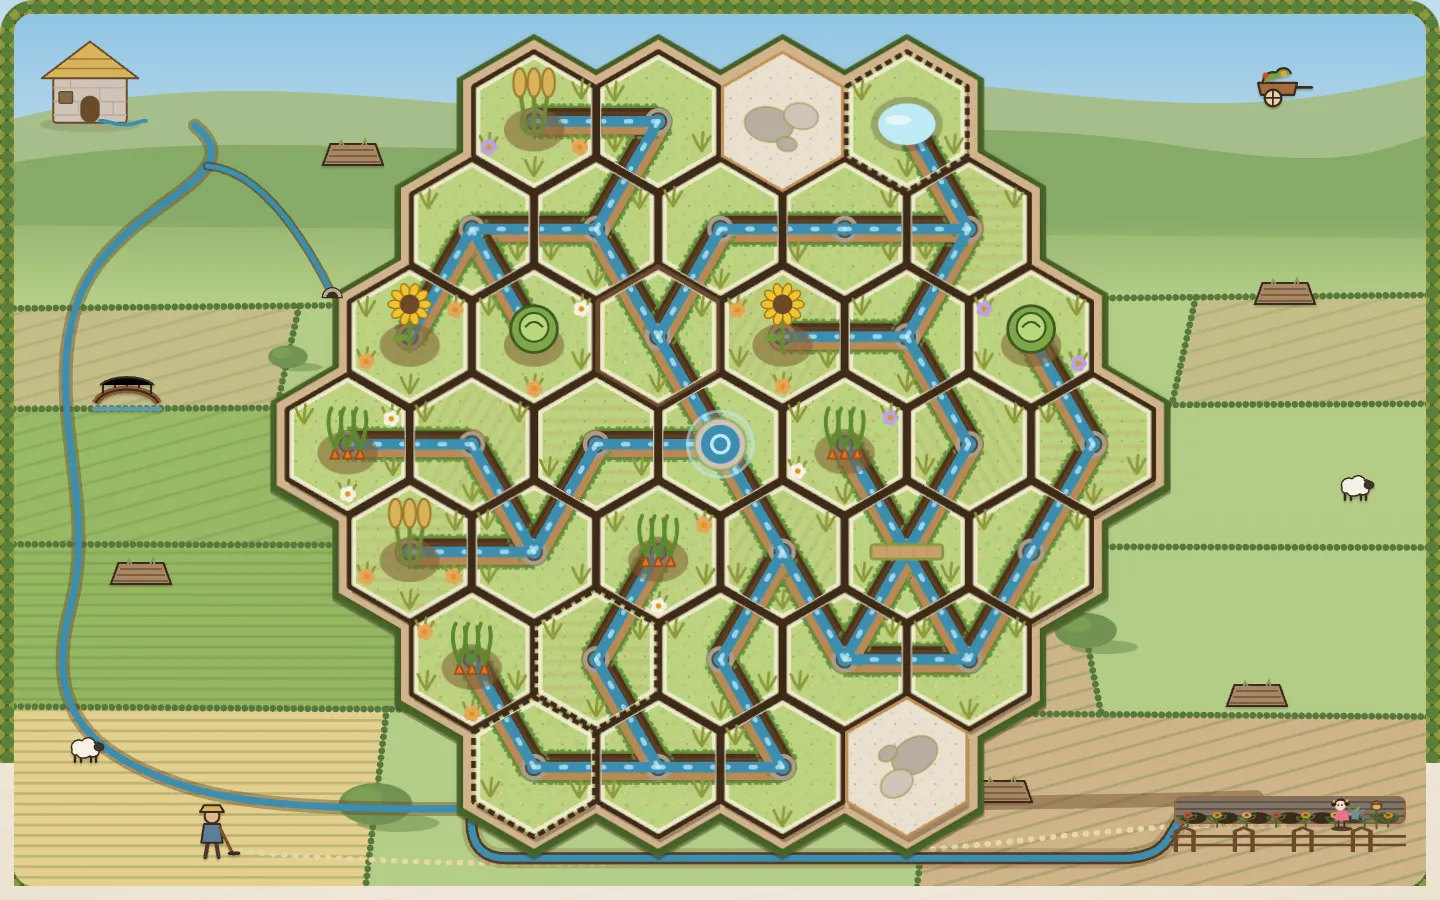
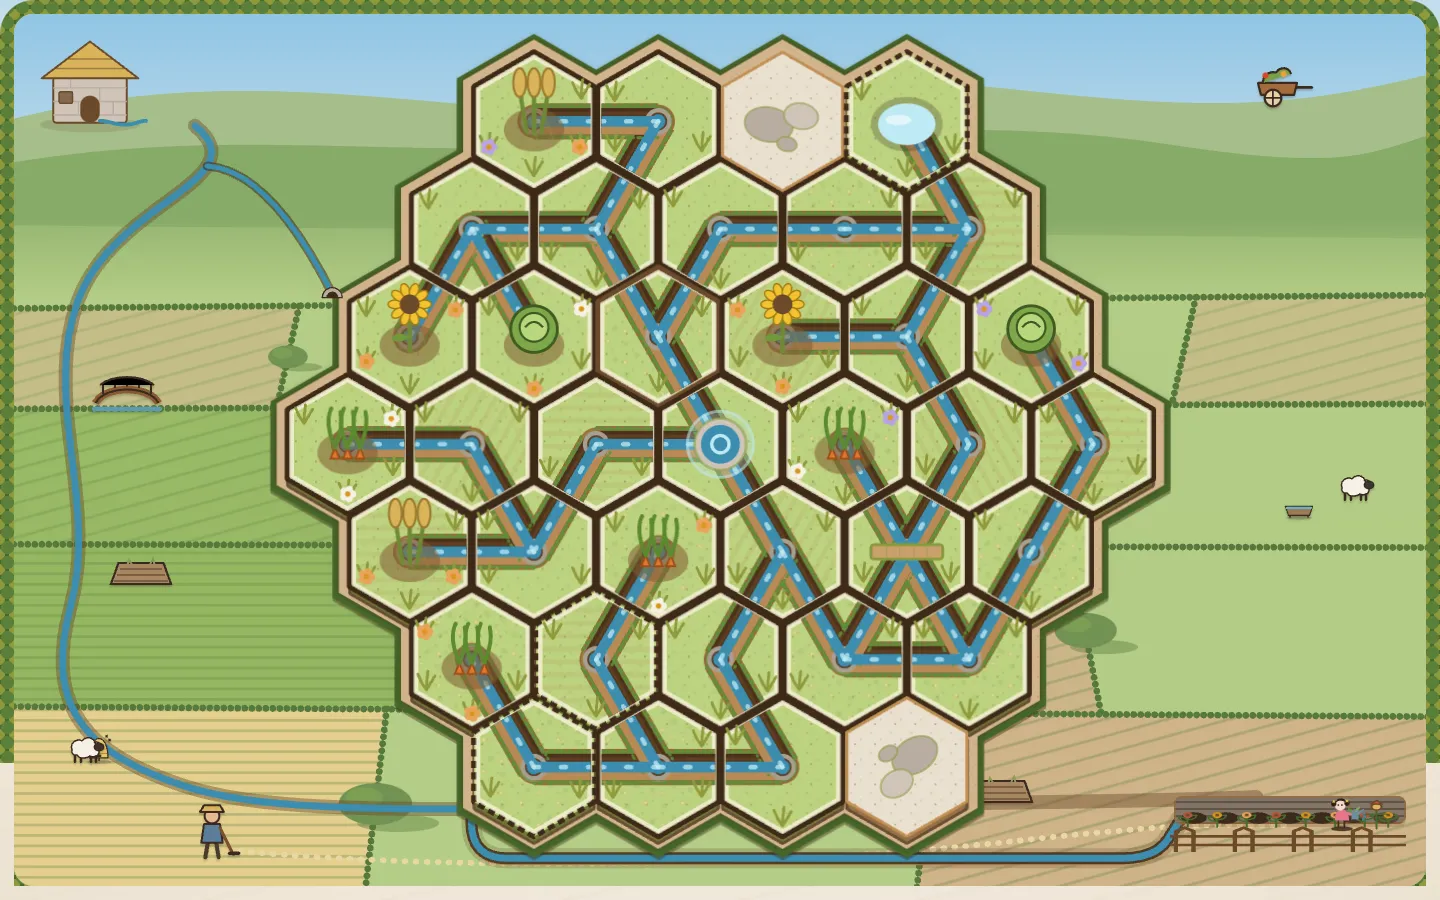
Item 273: Runnel's rain puddles as pools, not minus pills (key art re-shot); lane B notes; release .build-lock-b
Claude-Session: https://claude.ai/code/session_01SimvMN1RHBGCWN7Eo7MzhN

diff --git a/games/runnel/src/valley.ts b/games/runnel/src/valley.ts
@@ -154,7 +154,21 @@ export function valleyLayers(seed: string, weather: Sky['weather']): string {
         const px = (xa + xb) / 2 + lean * 0.5 + (rnd(810 + n) - 0.5) * (xb - xa) * 0.4
         const py = (slope(r, xa) + slope(r + 1, xa + lean)) / 2 + (rnd(820 + n) - 0.5) * 20
         const pw = 22 + r * 9 + rnd(830 + n) * 14
-        puddles.push(`<g class="vl-puddle"><ellipse cx="${px.toFixed(0)}" cy="${py.toFixed(0)}" rx="${pw.toFixed(0)}" ry="${(pw * 0.32).toFixed(0)}"/><path class="vl-puddle-glint" d="M${(px - pw * 0.5).toFixed(0)} ${(py - pw * 0.08).toFixed(0)}h${(pw * 0.45).toFixed(0)}"/></g>`)
+        // Plan item 273: an irregular pool (eight seeded lobes, not an ellipse), its glint a curve along the far rim
+        // and a raindrop's ring on it; an ellipse with a straight dash across read as a 'minus' button.
+        const ry = pw * 0.32
+        const rim = Array.from({ length: 8 }, (_, k) => {
+          const a = (k / 8) * Math.PI * 2
+          const f = 0.78 + rnd(840 + n * 8 + k) * 0.4
+          return [px + Math.cos(a) * pw * f, py + Math.sin(a) * ry * f] as const
+        })
+        const mid = (a: readonly [number, number], b: readonly [number, number]) => `${((a[0] + b[0]) / 2).toFixed(1)} ${((a[1] + b[1]) / 2).toFixed(1)}`
+        let blob = `M${mid(rim[7]!, rim[0]!)}`
+        for (let k = 0; k < 8; k++) blob += `Q${rim[k]![0].toFixed(1)} ${rim[k]![1].toFixed(1)} ${mid(rim[k]!, rim[(k + 1) % 8]!)}`
+        const gx = px - pw * (0.15 + rnd(850 + n) * 0.3)
+        const glint = `M${(gx - pw * 0.28).toFixed(1)} ${(py - ry * 0.45).toFixed(1)}Q${gx.toFixed(1)} ${(py - ry * 0.78).toFixed(1)} ${(gx + pw * 0.3).toFixed(1)} ${(py - ry * 0.5).toFixed(1)}`
+        const rx = px + pw * (rnd(860 + n) * 0.5 - 0.1)
+        puddles.push(`<g class="vl-puddle"><path class="vl-puddle-pool" d="${blob}Z"/><path class="vl-puddle-glint" d="${glint}"/><ellipse class="vl-puddle-ring" cx="${rx.toFixed(1)}" cy="${(py + ry * 0.15).toFixed(1)}" rx="${(pw * 0.14).toFixed(1)}" ry="${(ry * 0.22).toFixed(1)}"/></g>`)
       }
       if (i > 0) hedges.push(`M${xa.toFixed(0)} ${slope(r, xa).toFixed(0)}L${(xa + lean).toFixed(0)} ${slope(r + 1, xa + lean).toFixed(0)}`)
       // An oak or two where the hedges meet.

diff --git a/games/runnel/src/styles.css b/games/runnel/src/styles.css
@@ -3818,16 +3818,22 @@ body[data-mode='practice'] #week-slot {
     vector-effect: non-scaling-stroke;
   }
   /* Plan item 229: a rain day's puddles hold the sky's low light, a glint along their far rim. */
-  .vl-puddle ellipse {
+  .vl-puddle .vl-puddle-pool {
     /* plan item 252: water first (the sky's colour alone read as grey stones) */
     fill: color-mix(in srgb, color-mix(in srgb, var(--water) 55%, var(--vl-sky-low)) var(--vk), var(--paper));
     stroke: color-mix(in srgb, var(--vl-hedge) 35%, transparent);
     stroke-width: 2;
   }
   .vl-puddle-glint {
-    stroke: color-mix(in srgb, var(--paper) 85%, transparent);
-    stroke-width: 2.5;
+    fill: none;
+    stroke: color-mix(in srgb, var(--paper) 75%, transparent);
+    stroke-width: 2;
     stroke-linecap: round;
+  }
+  .vl-puddle-ring {
+    fill: none;
+    stroke: color-mix(in srgb, var(--paper) 45%, transparent);
+    stroke-width: 1.2;
   }
   .vl-drop {
     stroke: color-mix(in srgb, var(--paper) 55%, var(--vl-sky-top));

diff --git a/PROGRESS.md b/PROGRESS.md
@@ -5,7 +5,7 @@ Short by design (SPEC 16: under 150 lines). v1's full history (M0 to M7, every s
 ## Now
 - Lane A (21:51): **release retry running** (the 19:51 session held the lock past 20:51, so this is the retry): lane B's 3 blocker specs pass P and D; gates 1-4, Cathnivore gate 5 (88) and NS perf passed, site suite in progress at 22:36 with no failures. Item 261 slice 1 shipped (north-wall set); still claimed. Next: the pick's ground (puddle parked: it didn't show in the D pick).
 - Critique bugs from the 09:35 shots (`e2e/screenshots/plan1103d/`): NIGHT SHIFT wordmark 'H's: closed 2026-11-07 06:30 (lane A: whole at L and D at 8 s and 20 s; the SVG path, no dash left). Runnel P's spring house and garden: closed 2026-11-04 (item 106).
-- Lane B (22:22): item 264 done (grooves cut into the tiles, hinted tile lifts); runnel-practice's 1-in-3 failure on HEAD fixed (a random Practice greeting wrapped to a third line); planned items 267-273 from the plan1107g critique; item 273 slice 1 (gate queues one size, the hand's count pill off NOT YET). Claimed: 222, 259, 266, 273. Unclaimed: 262, 267-272.
+- Lane B (23:21): item 268 slices 1-2 (desktop Cath as large as the corner allows with her line beside her: daily 124 -> 152 px, lesson 200; 1280x800 no longer scrolls when her line comes back to the rail); item 273 slice 2 (puddles as pools, not 'minus' pills). Claimed: 222, 259, 266, 268, 273. Left in 268: a phone bust with a 48 px face (swapping the valley figure for the line's portrait moves the phone board: check runnel-practice's 260 px), the trench outfit.
 - Critique bugs from the 2026-11-05 09:30 shots (`e2e/screenshots/plan1105c/`, lane B): `cath-title-D` pennant hint ~13 px white on brown (1030-1280 x 800-818) and footer ~12 px (310-1130 x 872-886); `cath-title-P` small keys' labels ~12 px (85-305 x 692-735); `cath-setup-D` seed 'random' low contrast (655-840 x 795-835); `hedge-l34-2d-D` '485 coming' over a farmer (300-395 x 128-150); `hedge-menu-P` 'Brand Ambassador' (closed 2026-11-07 06:35 lane A: on its own label pill beside stop 30, off the road); `ns-title-D` neon sign clipped at the top (790-1150 x 0-45); `ns-play-P` FIXER tab cut (340-390 x 68-82); `games-P` hero ghosted (likely shot mid-entrance: check before fixing).
 - Critique bug seen 2026-11-04 13:30 (lane A, 1280x800): a Not-yet name cut on a 1280 desktop. Fixed 2026-11-04 14:15 (item 104 slice 1).
 - Critique bugs still open (2026-11-03 07:10 shots, `e2e/screenshots/plan1103c/`): NIGHT SHIFT P class pick blank under swiftshader (unconfirmed). Closed 2026-11-04 14:55 (lane A, checked in `plan1104e`): Cath no longer covers title-board hexes at P; Hedgerow D notebook is full; Hedgerow P map header is the act banner over the map.
@@ -36,6 +36,7 @@ None (Vercel deployed 9aee11e on 2026-10-12). (The App Store launch is postponed
 - 2026-10-21 22:44 `5109694`: CATHODE C15 "Armour that breaks, enemies that stagger" (armour/stagger/wounds sims, plates that crack with an amber seam, collapse and fall as rigid pieces, shattered visors over modelled faces, front/back/side staggers, knockdown and get-up, disarm with sidearm draw, limp/hanging arm/crawl, riot shield breaks in three, crit and takedown windows). All gates passed first try (1525 tests, Lighthouse 91); live version.json matches; browser smoke inconclusive (sandbox proxy), HTTP check passed; tag push 403 (harmless). 2nd release today.
 
 ## Session log (newest first, last 15)
+- **2026-11-07 23:21 lane B session:** CI green on c25e852 (lane A releasing). Item 268 slices 1-2, item 273 slice 2. Passing: runnel site specs (104, with the new runnel-host-size), runnel unit, ui-css-lint, keyart-fresh (Runnel key art re-shot).
 - **2026-11-07 22:22 lane B session:** CI green on 74e87f5. Item 264 (done), planning (items 267-273, subagent critique of `plan1107g`), item 273 slice 1. Passing: runnel site specs (101) and unit (105), runnel-practice 12/12 after the greeting fix, action-hand, table-hand, hedgerow gatequeue and vehicles, ui-css-lint, keyart-fresh. Hedgerow key art re-shot.
 - **2026-11-07 21:51 lane A session:** CI: 5972dd9's red was a cancelled run; 74e87f5 running. Release retried (see Now). Item 261 slice 1 (`33cece9`). Passing: cathode-front stands whole/neon/logotype/face/hero/eyes (P and D, 2 skipped by project), cathode-perf (225/256/388 calls), cathode level/collider/cover units (95), tsc, eslint. Tried and dropped: bins 0.25 m further from her (off the frame), item 148's puddle at her feet (not visible in the D pick). Shots scratchpad s0/s1 (title t8/t30 P, D), pk/pk2 (pick).
 - **2026-11-07 21:21 lane B session:** CI green on 35ba027; took lane A's blocked release first. Fixed hedgerow-critique177, runnel-lesson-close and runnel-water at the root. Passing: hedgerow map/critique/lane specs (63), runnel site specs P and D (practice flaked under 2 workers, 22/22 alone), runnel unit 105, keyart-fresh. Tried and dropped: coalescing the valley placements into a microtask (the desktop page then scrolled 31 px), and memoising host.ts's Cath art (no gain).
@@ -50,4 +51,3 @@ None (Vercel deployed 9aee11e on 2026-10-12). (The App Store launch is postponed
 - **2026-11-07 16:22 lane B session:** CI red on a5e6426 only for NS key art (lane A's 760da46; lane A re-shot it in d7659c0, keyart-fresh passes). Items 224 (slices 4-5, done), 236 (slice 2, done), 211 (slice 4, done), 222 slice 4. Passing: hedgerow-crayon (new), -farhouses3d (new advert test), -biome3d, -dressing3d, -field, -gatequeue; games-cards, -stall, -hero-cath; hedgerow unit 26; ui-css-lint; keyart-fresh. Hedgerow key art re-shot.
 - **2026-11-07 15:51 lane A session:** CI red on a5e6426 (keyart-fresh NIGHT SHIFT, from item 251's frontcath change): key art re-shot. Item 254 slice 1 (toon flats, hard rim, ink hull on 12 parts; title calls 150 -> 161). Passing: cathode-front (43), cathode-classpick (13), keyart-fresh, cathode-classposes unit; tsc, eslint. Full `npm run check` not run. Shots scratchpad ink (before/a3, D title t30, D pick, P title, P pick, zooms).
 - **2026-11-07 15:22 lane B session:** item 256 slice 2 and done; item 259 slices 2-7. Passing: hedgerow-gatequeue (new name-tag and plot checks), -vehicles, -depot, -field, -threat but its known l12 D bubble-over-plots failure (6232, as on HEAD), -farhouses3d, -biome3d; games-stall, -hero-cath, -cards (the 4.5:1 test timed out under 3 workers, passes alone); setup-placecards (new squash check, fails on the old CSS), setup-table, daily-ritual, title-counter/-fit/-table; runnel-terrace (lip gap to edges, sign check); ui-css-lint; keyart-fresh but NS (lane A's). Hedgerow key art re-shot twice.
-- **2026-11-07 14:51 lane A session:** CI green on b18d36dd. Item 251 slice 2. Passing: cathode-front 'stands whole', 'clear of her upright', 'face reads' (P and D), classpick 'case file' and 'swipe', classstage, classpose and audition (P); CSS lint, cathode-type, tsc, eslint. Failing locally under 3-4 parallel swiftshader workers (timeouts: 6 s subtitle, 60 s pose poll, page loads): desktop classpick 151/187, classpose, front 'menu keeps fixed slots' (passed alone); left to CI. Full `npm run check` not run. Shots scratchpad n251 (before/after/after2 at 390x844, 375x667, t=8/30/60).

diff --git a/docs/plan/two-week-plan.md b/docs/plan/two-week-plan.md
@@ -2739,7 +2739,7 @@ The items come from fresh-eyes audits on 2026-11-01 and 2026-11-02 (items 25-32:
 - **Accept:** no two cards show the same pose or outfit; no figure cut by a card's edge; the NIGHT SHIFT card's mean luminance 0.12 or more with LUNA wholly inside; games-cards, games-stall, posterplay pass; key art re-shot; shots portfolio and games, P and D.
 - **Size:** 2
 
-## 273. [ ] The bugs from the 2026-11-07 22:40 critique, fixed as one batch *(lane B, in progress)* *(slice 1, 2026-11-07 22:55 lane B: **Hedgerow** a gate queue is one size: 1.4x only when every vehicle of it stands on a straight run across, else all at 1x (D l34's vans were two sizes at the bend); gatequeue, vehicles pass; key art re-shot. **Cathnivore** P hand: the 'N more ›' pill sits 30 px in from the edge, off the NOT YET deck's upright label; action-hand, table-hand pass. Shots scratchpad q256-q273-D-34, ph4)*
+## 273. [ ] The bugs from the 2026-11-07 22:40 critique, fixed as one batch *(lane B, in progress)* *(slice 1, 2026-11-07 22:55 lane B: **Hedgerow** a gate queue is one size: 1.4x only when every vehicle of it stands on a straight run across, else all at 1x (D l34's vans were two sizes at the bend); gatequeue, vehicles pass; key art re-shot. **Cathnivore** P hand: the 'N more ›' pill sits 30 px in from the edge, off the NOT YET deck's upright label; action-hand, table-hand pass. Shots scratchpad q256-q273-D-34, ph4)* *(slice 2, 23:40: **Runnel** a rain day's puddles are irregular seeded pools with a curved glint along the far rim and a raindrop ring, not ellipses with a straight dash (they read as 'minus' pills); valley, week-valley, valley-folk, board pass; key art re-shot; shot scratchpad pd-D/P)*
 - **Build:** (check each first; shots `e2e/screenshots/plan1107g`; dropped: 'Kingsmarket' across the river, checked 2026-11-07 (10 px clear); points already in 259, 261, 266)
   - **Cathnivore:** P game: the '9 more ›' pill on the NOT YET deck's vertical label (310-385 x 700-740). D game: Partner's farm '+1/+2' about 11 px grey (90-290 x 268-292); ACTIONS' three plain discs with no label or state (220-315 x 42-68). D and P title: 'Today's Daily is open' about 11 px grey (852-965 x 778-796; P 265-360 x 578-594). D campaign: chapter 4's card cut by the rail's foot with letter fragments (975-1357 x 843-900): a whole-card fade or snap. D setup: the pins' grey captions (160-285 x 712-742), check 4.5:1.
   - **Runnel:** the rain puddles read as 'minus' pills (D 520-600 x 458-482 and others; P 50-190 x 490-510): varied shapes, a sky glint, no dash. D: the barrow on the board's top rim against the sky (860-910 x 75-112). D legend's second words grey at 13 px (110-300 x 400-436), check 4.5:1.

diff --git a/docs/archive/PROGRESS-v1.md b/docs/archive/PROGRESS-v1.md
@@ -3938,3 +3938,4 @@ want reminded of mid-game without leaving the Farm sheet. Full detail in DECISIO
 - **2026-11-07 13:22 lane B session:** CI green on 7345ddb. Item 242 closed; planned 254-259; item 259 slice 1. Passing: runnel-week-valley, -valley-folk, -valley, -front (phone and desktop). Shots `e2e/screenshots/plan1107e`, `i214/rp2-*`.
 - **2026-11-07 12:52 lane A session:** CI green on f140f17 (c04fecd cancelled, 7345ddb running). Item 249 slice 1: the Market Board as a 2x2 beside the papers at 1400 px and up (board 536 -> 606 px at 1440x900); not committed: board-scale (Cath meets Brindle Hills; map moves 13 px on Hollowell's turn) and table-cath failed. Passing with it: desktop-no-scroll, critique177, tutorial, board-scales, CSS lint. Patch saved, item handed back. No code shipped. Shots scratchpad b249 (before, a1-a6).
 - **2026-11-07 13:51 lane A session:** CI green on 25dd7b5. Item 249 slices 1-3 and done (readings folded beside the papers at 1400+, board 536 -> 593 px at 1440x900; tile idle life `data-idle`); item 251 slice 1, handed back. Passing: board-scale, table-cath, -face, desktop-no-scroll, suggest-move, critique177, board-scales, board-objects, plan-cards (fixed at 1440 and 1280), accessibility, board-idle (new), tutorial (flaked once, passed twice), map unit; cathode-front 'clear of her upright', 'stands whole', 'face reads' (site-phone/-desktop); CSS lint, cathode-type, tsc, eslint. Full `npm run check` not run. Shots scratchpad b249 (before/after/after2 at 1440 light and dark, 1280, 1920, 390; idle zooms; ns-before/after at 390, 375, t=60).
+- **2026-11-07 14:51 lane A session:** CI green on b18d36dd. Item 251 slice 2. Passing: cathode-front 'stands whole', 'clear of her upright', 'face reads' (P and D), classpick 'case file' and 'swipe', classstage, classpose and audition (P); CSS lint, cathode-type, tsc, eslint. Failing locally under 3-4 parallel swiftshader workers (timeouts: 6 s subtitle, 60 s pose poll, page loads): desktop classpick 151/187, classpose, front 'menu keeps fixed slots' (passed alone); left to CI. Full `npm run check` not run. Shots scratchpad n251 (before/after/after2 at 390x844, 375x667, t=8/30/60).

diff --git a/DECISIONS.md b/DECISIONS.md
@@ -284,3 +284,5 @@ Newest at the bottom. At most 5 lines per entry, under 250 lines in all (SPEC 16
 - 2026-11-07 22:35 lane B (item 264): the hinted tile 'lifts' by its shadow (dropped and softened), not by raising the tile: the board is fitted to its tiles' boxes, so a raised tile moved it 11 px down at P.
 - 2026-11-07 22:40 lane B: runnel-practice's 260 px check failed 1 load in 3 on HEAD because the longest of Practice's random greetings wrapped to a third line; it's now as short as the other two (12/12), rather than loosening the check.
 - 2026-11-07 22:45 lane B (planning): items 267-272 come from a subagent critique of `plan1107g`, 273 is its bug batch. Dropped: 'Kingsmarket' over the river (checked earlier, 10 px clear). A gate queue now takes one size (item 256's 1.4x only if all of it stands on a straight run across).
+- 2026-11-07 23:30 lane B (item 268): Runnel's desktop Cath picks the largest size (200 down to 128 px) that clears the tiles and still keeps her line in the valley; each try resets the rail fallback first, since a fallback grows the page and skews the next measurement. With none, she keeps the old 8.6vw size.
+- 2026-11-07 23:35 lane B (item 268): on a desktop under 860 px tall, a daily's line in the rail hides the 28-day calendar, as the Sunday board already did (1280x800 scrolled 47 px on HEAD).
